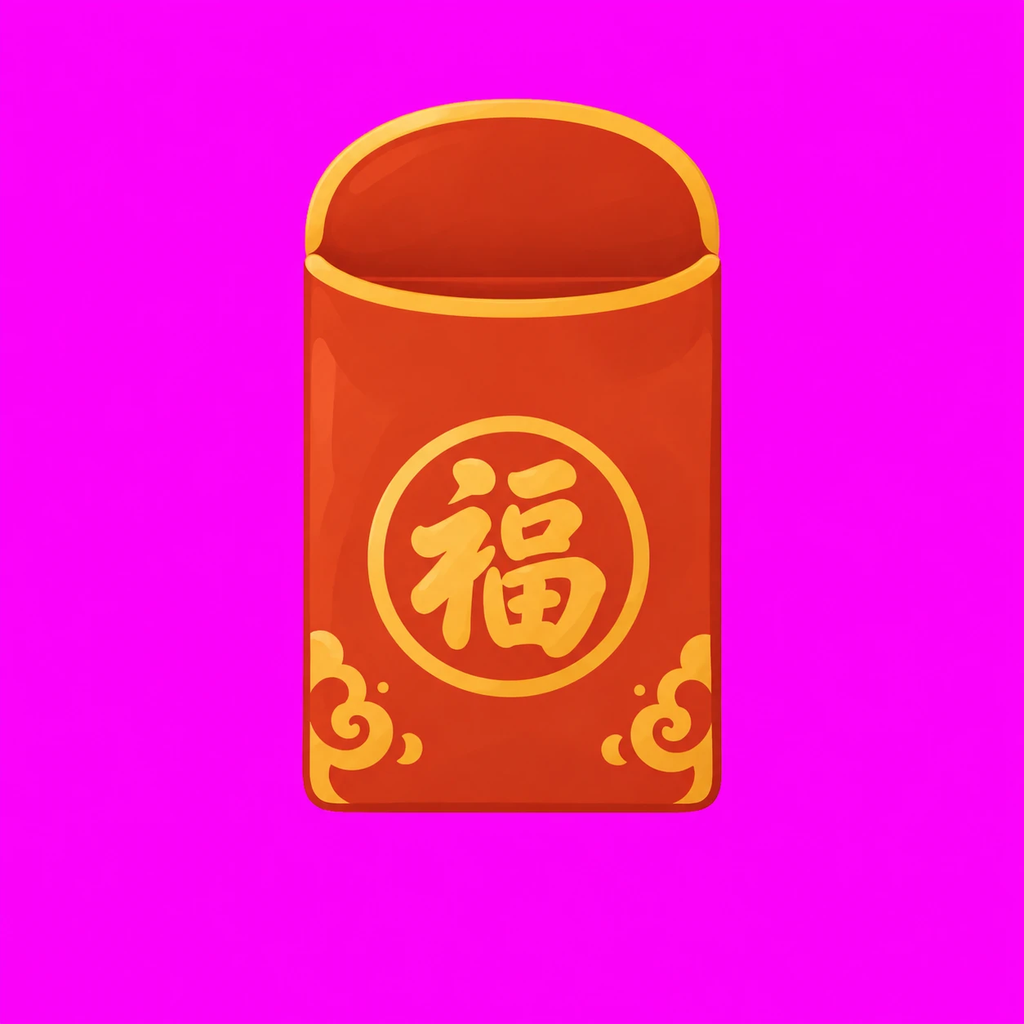
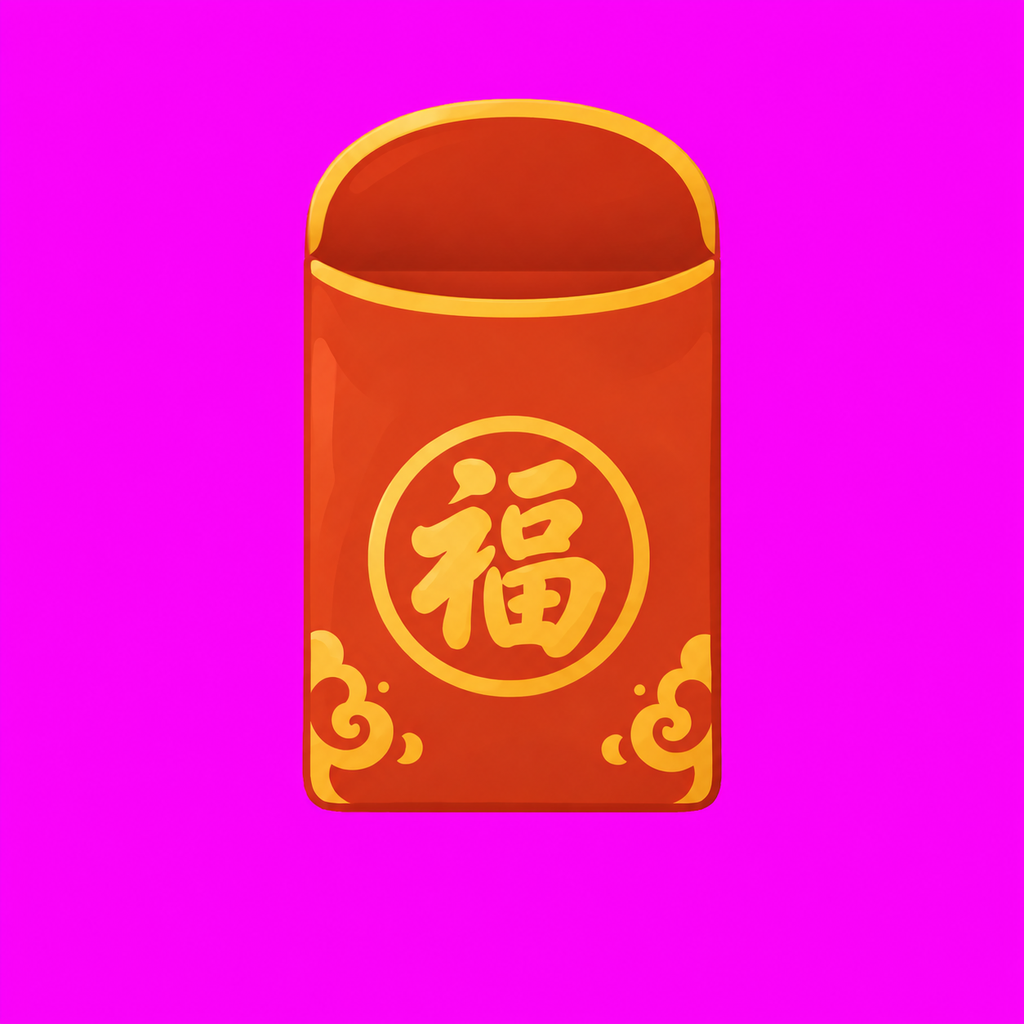
pocket2: the open pocket's crease level with where the flap meets the sides

diff --git a/tools/art/add_pocket2.py b/tools/art/add_pocket2.py
@@ -81,15 +81,19 @@ def parts(kind, colour, inside):
 # the red open pocket: Codex's second try, close, fixed by an edit (the owner, 20 Oct 2026: "so close! just some disconnect
 # still", "and crease in the wrong place?"). The jade and gold ones take the same wording from the start.
 FOLD = ("The flap and the pocket are ONE piece of paper: the flap folds at the BACK panel's top edge, and at that crease the "
-        "flap's red runs straight down into the back panel's red with only a soft fold shading, NO gold line or rim along "
+        "flap's red runs straight down into the back panel's red. The crease is ONE straight line across, exactly level with "
+        "the two points where the flap's sides meet the pocket's left and right sides (the flap's gold rim runs down its sides "
+        "right to that line, and the crease joins their ends), not lower down. At the crease, the flap's red meets the back panel's red with only a soft fold shading, NO gold line or rim along "
         "the crease (the gold rim is only on the flap's free curved edge at the top). The outer outline is one continuous "
         "line: the pocket's left and right sides carry straight on up through the crease into the flap's sides, no notch, "
         "no step, no gap at the corners. The FRONT panel's top edge sits a little below the crease, a gentle curve with its "
         "gold trim, and its two ends meet the pocket's sides exactly, flush, not curling up. Between the front's edge and "
         "the crease only a shallow sliver of the darker back panel shows.")
 OPEN_FIX = ("The FIRST attached image is an opened lucky pocket for the app. EDIT it: keep everything exactly as it is (canvas, "
-            "size, place, the flap's shape and colour, the front with its circle, character and swirls, the style) and fix "
-            "ONLY where the flap meets the pocket. " + FOLD + END)
+            "size, place, the flap's shape and colour, the front's curved gold edge, the front with its circle, character and "
+            "swirls, the style) and fix ONLY the crease: it is drawn too low. Move the dark crease line UP so it runs straight "
+            "across exactly level with the two points where the flap's gold rim meets the pocket's left and right sides, "
+            "joining them; the darker back panel then shows between that line and the front's curved gold edge. " + FOLD + END)
 
 JOBS = []
 for k, c, i in POCKETS:
